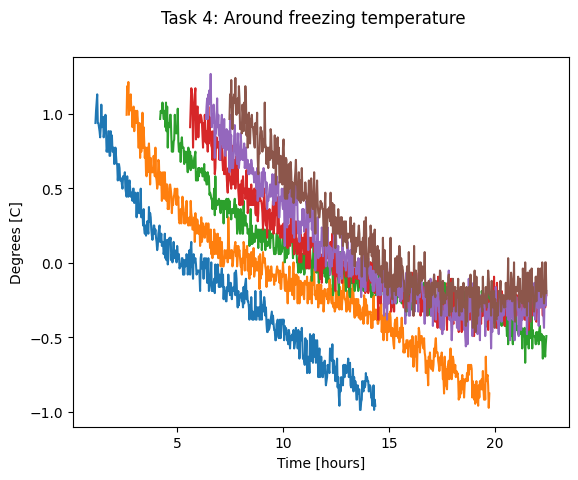
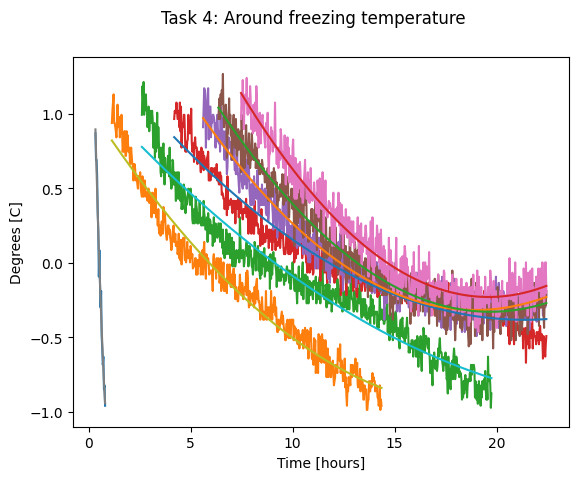
add polynomial approx in task 4

diff --git a/plot_task4.py b/plot_task4.py
@@ -1,4 +1,5 @@
 from process_data import *
+import numpy as np
 
 # Find the breakpoints
 break_temperatures = [0, 1, -1]
@@ -30,6 +31,27 @@ p9, = plt.plot(hours[0:breakpoints[0][9]], stringTemperatures[9][0:breakpoints[0
 p10, = plt.plot(hours[0:breakpoints[0][10]], stringTemperatures[10][0:breakpoints[0][10]])
 p11, = plt.plot(hours[0:breakpoints[0][11]], stringTemperatures[11][0:breakpoints[0][11]])
 
+p5_trend = np.poly1d(np.polyfit(hours[0:breakpoints[0][5]],stringTemperatures[5][0:breakpoints[0][5]], 2))
+plt.plot(hours[0:breakpoints[0][5]], p5_trend(hours[0:breakpoints[0][5]]))
+
+p6_trend = np.poly1d(np.polyfit(hours[0:breakpoints[0][6]],stringTemperatures[6][0:breakpoints[0][6]], 2))
+plt.plot(hours[0:breakpoints[0][6]], p6_trend(hours[0:breakpoints[0][6]]))
+
+p7_trend = np.poly1d(np.polyfit(hours[0:breakpoints[0][7]],stringTemperatures[7][0:breakpoints[0][7]], 2))
+plt.plot(hours[0:breakpoints[0][7]], p7_trend(hours[0:breakpoints[0][7]]))
+
+p8_trend = np.poly1d(np.polyfit(hours[0:breakpoints[0][8]],stringTemperatures[8][0:breakpoints[0][8]], 2))
+plt.plot(hours[0:breakpoints[0][8]], p8_trend(hours[0:breakpoints[0][8]]))
+
+p9_trend = np.poly1d(np.polyfit(hours[0:breakpoints[0][9]],stringTemperatures[9][0:breakpoints[0][9]], 2))
+plt.plot(hours[0:breakpoints[0][9]], p9_trend(hours[0:breakpoints[0][9]]))
+
+p10_trend = np.poly1d(np.polyfit(hours[0:breakpoints[0][10]],stringTemperatures[10][0:breakpoints[0][10]], 2))
+plt.plot(hours[0:breakpoints[0][10]], p10_trend(hours[0:breakpoints[0][10]]))
+
+p11_trend = np.poly1d(np.polyfit(hours[0:breakpoints[0][11]],stringTemperatures[11][0:breakpoints[0][11]], 2))
+plt.plot(hours[0:breakpoints[0][11]], p11_trend(hours[0:breakpoints[0][11]]))
+
 fig.suptitle(plot_title)
 
 plt.ylabel('Degrees [C]')
@@ -51,6 +73,27 @@ p8, = plt.plot(hours[breakpoints[1][8]:breakpoints[2][8]], stringTemperatures[8]
 p9, = plt.plot(hours[breakpoints[1][9]:breakpoints[2][9]], stringTemperatures[9][breakpoints[1][9]:breakpoints[2][9]])
 p10, = plt.plot(hours[breakpoints[1][10]:breakpoints[2][10]], stringTemperatures[10][breakpoints[1][10]:breakpoints[2][10]])
 p11, = plt.plot(hours[breakpoints[1][11]:breakpoints[2][11]], stringTemperatures[11][breakpoints[1][11]:breakpoints[2][11]])
+
+p5_trend = np.poly1d(np.polyfit(hours[breakpoints[1][5]:breakpoints[2][5]],stringTemperatures[5][breakpoints[1][5]:breakpoints[2][5]], 2))
+plt.plot(hours[breakpoints[1][5]:breakpoints[2][5]], p5_trend(hours[breakpoints[1][5]:breakpoints[2][5]]))
+
+p6_trend = np.poly1d(np.polyfit(hours[breakpoints[1][6]:breakpoints[2][6]],stringTemperatures[6][breakpoints[1][6]:breakpoints[2][6]], 2))
+plt.plot(hours[breakpoints[1][6]:breakpoints[2][6]], p6_trend(hours[breakpoints[1][6]:breakpoints[2][6]]))
+
+p7_trend = np.poly1d(np.polyfit(hours[breakpoints[1][7]:breakpoints[2][7]],stringTemperatures[7][breakpoints[1][7]:breakpoints[2][7]], 2))
+plt.plot(hours[breakpoints[1][7]:breakpoints[2][7]], p7_trend(hours[breakpoints[1][7]:breakpoints[2][7]]))
+
+p8_trend = np.poly1d(np.polyfit(hours[breakpoints[1][8]:breakpoints[2][8]],stringTemperatures[8][breakpoints[1][8]:breakpoints[2][8]], 2))
+plt.plot(hours[breakpoints[1][8]:breakpoints[2][8]], p8_trend(hours[breakpoints[1][8]:breakpoints[2][8]]))
+
+p9_trend = np.poly1d(np.polyfit(hours[breakpoints[1][9]:breakpoints[2][9]],stringTemperatures[9][breakpoints[1][9]:breakpoints[2][9]], 2))
+plt.plot(hours[breakpoints[1][9]:breakpoints[2][9]], p9_trend(hours[breakpoints[1][9]:breakpoints[2][9]]))
+
+p10_trend = np.poly1d(np.polyfit(hours[breakpoints[1][10]:breakpoints[2][10]],stringTemperatures[10][breakpoints[1][10]:breakpoints[2][10]], 2))
+plt.plot(hours[breakpoints[1][10]:breakpoints[2][10]], p10_trend(hours[breakpoints[1][10]:breakpoints[2][10]]))
+
+p11_trend = np.poly1d(np.polyfit(hours[breakpoints[1][11]:breakpoints[2][11]],stringTemperatures[11][breakpoints[1][11]:breakpoints[2][11]], 2))
+plt.plot(hours[breakpoints[1][11]:breakpoints[2][11]], p11_trend(hours[breakpoints[1][11]:breakpoints[2][11]]))
 
 fig.suptitle(plot_title)
 
@@ -74,6 +117,27 @@ p8, = plt.plot(hours[breakpoints[0][8]::], stringTemperatures[8][breakpoints[0][
 p9, = plt.plot(hours[breakpoints[0][9]::], stringTemperatures[9][breakpoints[0][9]::])
 p10, = plt.plot(hours[breakpoints[0][10]::], stringTemperatures[10][breakpoints[0][10]::])
 p11, = plt.plot(hours[breakpoints[0][11]::], stringTemperatures[11][breakpoints[0][11]::])
+
+p5_trend = np.poly1d(np.polyfit(hours[breakpoints[0][5]::],stringTemperatures[5][breakpoints[0][5]::], 2))
+plt.plot(hours[breakpoints[0][5]::], p5_trend(hours[breakpoints[0][5]::]))
+
+p6_trend = np.poly1d(np.polyfit(hours[breakpoints[0][6]::],stringTemperatures[6][breakpoints[0][6]::], 2))
+plt.plot(hours[breakpoints[0][6]::], p6_trend(hours[breakpoints[0][6]::]))
+
+p7_trend = np.poly1d(np.polyfit(hours[breakpoints[0][7]::],stringTemperatures[7][breakpoints[0][7]::], 2))
+plt.plot(hours[breakpoints[0][7]::], p7_trend(hours[breakpoints[0][7]::]))
+
+p8_trend = np.poly1d(np.polyfit(hours[breakpoints[0][8]::],stringTemperatures[8][breakpoints[0][8]::], 2))
+plt.plot(hours[breakpoints[0][8]::], p8_trend(hours[breakpoints[0][8]::]))
+
+p9_trend = np.poly1d(np.polyfit(hours[breakpoints[0][9]::],stringTemperatures[9][breakpoints[0][9]::], 2))
+plt.plot(hours[breakpoints[0][9]::], p9_trend(hours[breakpoints[0][9]::]))
+
+p10_trend = np.poly1d(np.polyfit(hours[breakpoints[0][10]::],stringTemperatures[10][breakpoints[0][10]::], 2))
+plt.plot(hours[breakpoints[0][10]::], p10_trend(hours[breakpoints[0][10]::]))
+
+p11_trend = np.poly1d(np.polyfit(hours[breakpoints[0][11]::],stringTemperatures[11][breakpoints[0][11]::], 2))
+plt.plot(hours[breakpoints[0][11]::], p11_trend(hours[breakpoints[0][11]::]))
 
 fig.suptitle(plot_title)
 
